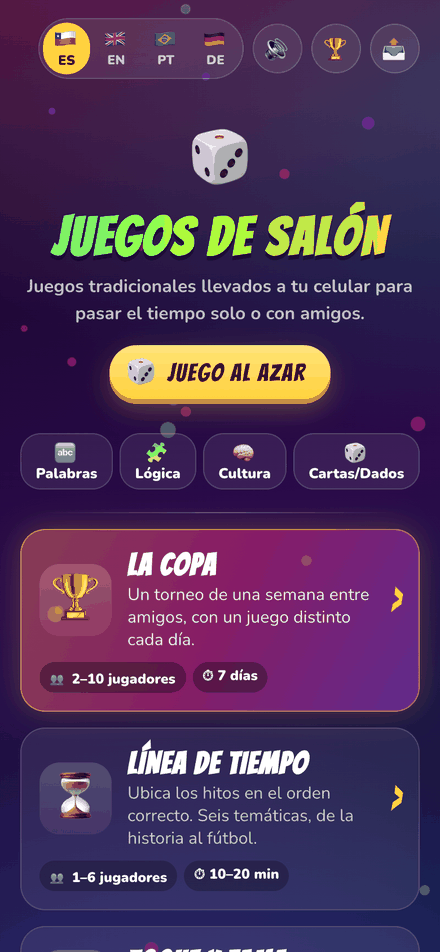
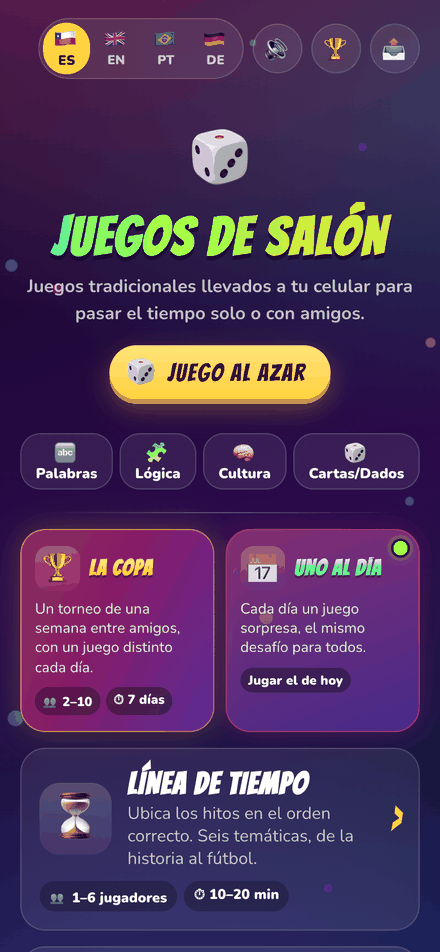
Documentación de D-239: Uno al día en la tarjeta junto a La Copa, no al lado del dado
- README: la portada pone One a Day en media fila junto a The Cup (sellado; captura del menú rehecha).
- UNO-AL-DIA.md: "En corto", "Día 2", el recordatorio de la portada y el PR 8 hablan de la
  tarjeta; la píldora sin jugar dice "🔥 6 · Jugar el de hoy", como el código.
- tools/e2e/README.md: uno-al-dia.mjs mira la tarjeta, las píldoras y la forma de /labs/.
- promo-video/README.md: el plano pendiente de la v6 muestra la tarjeta, no el botón.

diff --git a/docs/UNO-AL-DIA.md b/docs/UNO-AL-DIA.md
@@ -12,8 +12,9 @@ Las pantallas están dibujadas en un lienzo aparte (privado del dueño).
 
 ## En corto
 
-1. **Un botón nuevo en la portada**: 📅 **Uno al día**, junto a 🎲 **Juego al azar**. Muestra la
-   racha (🔥 6) y si ya se jugó hoy.
+1. **Un acceso nuevo en la portada**: 📅 **Uno al día**, en una tarjeta de media fila junto a La
+   Copa (D-239; en el diseño era un botón junto a 🎲 **Juego al azar**). Muestra la racha (🔥 6) y
+   si ya se jugó hoy.
 2. **El juego de hoy es el mismo para todos**, con el mismo contenido: sale de la fecha, como el
    contenido de un día de La Copa sale del código y del día (D-97). Así hay ranking del día y algo
    que compartir ("hoy me fue mejor que a ti").
@@ -96,14 +97,14 @@ lanzamiento: **Uno al día n.° 1, n.° 2…**, para compartir.
 
 ### Día 2 en adelante: vuelve
 
-- **Por su cuenta:** abre la app y el botón dice **📅 Uno al día 🔥 1**, con el punto que brilla
-  (el botón va en una línea, ver "Lo que el PR 1 hizo").
+- **Por su cuenta:** abre la app y la tarjeta de Uno al día dice **🔥 1 · Jugar el de hoy**, con el
+  punto que brilla (D-239, ver "Lo que el PR 1 hizo").
 - **Con un aviso** a la hora que eligió: "📅 Uno al día n.° 13 ya está. 🔥 Racha: 1 día." (el de la tabla de
   avisos) Al tocarlo
   rueda el dado.
-- **Mientras no lo haya jugado, el dado rueda cada vez** que toca el botón, el aviso o un link, y
+- **Mientras no lo haya jugado, el dado rueda cada vez** que toca la tarjeta, el aviso o un link, y
   siempre cae en el mismo juego (decisión del dueño: la misma experiencia de Juego al azar).
-- Si ya jugó, el botón queda cian, **✅ Uno al día 🔥 2**, y al tocarlo abre su página de Uno al día (sus
+- Si ya jugó, la tarjeta queda cian, **✅ Listo · 🔥 2**, y al tocarla abre su página de Uno al día (sus
   números, el ranking del día y cuánto falta para el próximo: "El próximo sale en 7 h 12 min.").
 
 ### Quiere jugar más
@@ -290,7 +291,7 @@ Para quien no quiere avisos, o tiene un iPhone sin la app instalada:
 
 | Forma | Cómo funciona |
 |---|---|
-| **El botón de la portada** | Su estado se ve al entrar: el punto que brilla mientras falta jugar, 🔥 6, y cian con ✅ cuando ya jugó. |
+| **La tarjeta de la portada** | Su estado se ve al entrar: el punto que brilla mientras falta jugar, 🔥 6, y cian con ✅ cuando ya jugó (D-239). |
 | **El globo en el ícono** | En la app instalada (Android, y iPhone con avisos permitidos), un **1** en el ícono si hoy no ha jugado (`navigator.setAppBadge`). Lo pone la página al abrir y lo quita al terminar; el service worker lo pone con el aviso del día. |
 | **La tarjeta para compartir** | Al estilo Wordle, sin adelantar la respuesta: el grupo de WhatsApp le recuerda a cada uno que juegue. |
 | **El link fijo** | `juegosdesalon.cl/today/` siempre abre el de hoy: se guarda en favoritos o se fija en un grupo. |
@@ -400,8 +401,8 @@ celular saca la palabra, la flota o los dados de la semilla del día.
   flecha, más la frase del que más mejoró o, si ninguno, del que más bajó.
 - **Dónde va en la portada** (D-239, decisión del dueño, 2026-10-06): en una tarjeta de media fila
   junto a La Copa, mitad y mitad, con el emoji a la izquierda del título y el título en celeste (el
-  de La Copa, en dorado). Abajo, una píldora con el estado: **Jugar el de hoy**, o **✅ Listo · 🔥 6**
-  ya jugado. La forma de antes, un botón en la misma fila que Juego al azar (**🎲 Al azar** y
+  de La Copa, en dorado). Abajo, una píldora con el estado: **🔥 6 · Jugar el de hoy** (sin racha, solo
+  **Jugar el de hoy**), o **✅ Listo · 🔥 6** ya jugado. La forma de antes, un botón en la misma fila que Juego al azar (**🎲 Al azar** y
   **📅 Uno al día 🔥 6**), queda para probarla desde `/labs/` ("Al lado del dado") o con
   `?uad=boton`.
 - El CSS del dado pasó de la portada a `base.css`, para tirarlo desde cualquier página.
@@ -558,7 +559,8 @@ celular saca la palabra, la flota o los dados de la semilla del día.
 ### Lo que el PR 8 hizo (v0.121.0): sale del laboratorio
 
 - `UNO_AL_DIA_EN_LABS = false`: el botón de la portada, `/today/` y todo lo demás se ven para
-  todos. En `/labs/` queda solo probar la otra forma del acceso (la tarjeta junto a La Copa).
+  todos. En `/labs/` queda solo probar la otra forma del acceso (la tarjeta junto a La Copa, que pasó a
+  ser la de todos en D-239; desde entonces en `/labs/` se prueba el botón al lado del dado).
 - **El n.° 1 pasó al 6 de octubre de 2026**, el día en que se abrió (decisión del dueño):
   `LANZAMIENTO` en uno-al-dia.js. El mazo es el mismo corrido un día (el 6 es Desenredo) y los de
   grupo siguen saliendo desde el mazo del 13. Desde ahora queda fijo: moverlo cambia el juego de
@@ -597,7 +599,7 @@ Botones (caben en 320 px, unos 18 caracteres): **Uno al día**, **Jugar el de ho
 **🎲 Jugar otro**, **Invitar**, **Entrar**, **Ahora no**, **Mañana · 9:00**, **Almuerzo · 13:00**,
 **Tarde · 19:00**, **Silenciar** y **Probar los avisos** ("⏰ Agregar recordatorio", que pasaba de
 18 e iba en botón chico, se sacó: decisión 15). En la portada va una tarjeta al lado de La Copa
-(D-239), con su estado en una píldora: **Jugar el de hoy** o **✅ Listo · 🔥 6**. Mientras falta
+(D-239), con su estado en una píldora: **🔥 6 · Jugar el de hoy** o **✅ Listo · 🔥 6**. Mientras falta
 jugar el de hoy brilla un punto; jugada, la tarjeta se pone cian. En `/labs/` se prueba la forma de
 antes, un botón en una línea, **📅 Uno al día 🔥 6**, al lado de **🎲 Al azar**.
 Lo que hace cada estado va en su `aria-label`. "Racha", "comodín" y "Silenciar" se dicen siempre así (U-5). Los

diff --git a/tools/e2e/README.md b/tools/e2e/README.md
@@ -109,7 +109,7 @@ node tools/e2e/contacto.mjs cuarto-rey --salida /tmp/contacto
 | `versionado.mjs` | Que todos los módulos carguen con `?v=` del import map. Desde D-205 `public/` no lo lleva: correrlo contra una copia estampada (`set-version.py --sitio /tmp/sitio`, servida y pasada en `SITIO`) |
 | `instalable.mjs` | La app instalable (D-221): en la portada, un juego, La Copa, un juego suelto y `/records/`, Chrome registra `/sw.js` con alcance `/`, lee el manifest sin errores y deja instalar. En los cuatro idiomas, en la portada y en un juego, revisa que la app se llame con el `appTitle` del idioma, en el manifest y en el `apple-mobile-web-app-title` (D-222). Contra una copia estampada (`SITIO`) prueba además que el import map no se rompa |
 | `instalar.mjs` | El globo de la portada que invita a agregar la app a inicio (D-232): con el celular de cada uno (Safari y Chrome en iPhone, Chrome y Samsung en Android, WhatsApp), revisa los pasos de la hoja, el diálogo propio de Chrome, que la ✕ y "Ya la agregué" lo apaguen para siempre, que no salga en el computador ni en la app instalada, y que quepa a 320 px en los cuatro idiomas |
-| `uno-al-dia.mjs` | Uno al día (D-230): con el reloj fijo en el día n.° 1, el botón de la portada, el dado que cae en el juego de hoy, la línea de la intro, un link de otro juego que se va al de hoy, la tarjeta del resultado (racha, compartir sin decir el juego, con imagen), sin el ranking del juego, el segundo intento como práctica, el botón "Listo" y `/today/` con su racha, su calendario y la tendencia de cada juego, a 320 px y en los cuatro idiomas |
+| `uno-al-dia.mjs` | Uno al día (D-230): con el reloj fijo en el día n.° 1, la tarjeta de la portada junto a La Copa (D-239: las píldoras de las dos en una línea, el dado que vuelve a decir "Juego al azar" y el botón al lado del dado desde `/labs/`), el dado que cae en el juego de hoy, la línea de la intro, un link de otro juego que se va al de hoy, la tarjeta del resultado (racha, compartir sin decir el juego, con imagen), sin el ranking del juego, el segundo intento como práctica, el botón "Listo" y `/today/` con su racha, su calendario y la tendencia de cada juego, a 320 px y en los cuatro idiomas |
 | `uno-al-dia-jugador.mjs` | Uno al día con jugador (D-230), con el almacén de prueba: Sara juega el de hoy, entra y su día sube a la historia y a los rankings (del día y de rachas); `/today/` muestra el ranking con sus cuatro pestañas; invitar manda su link en primera persona; Pedro, en otro "celular", ve "🔥 Sara te desafía", juega, ve el duelo y le da un comodín a Sara, que lo ve una vez al volver |
 | `uno-al-dia-avisos.mjs` | Los avisos de Uno al día (D-230), con un servicio de avisos falso: la oferta con las tres horas la segunda vez que se termina, elegir una suscribe y guarda `pushDia`, la campana de `/today/` (hora, interruptores, Silenciar), que no haya recordatorio en el calendario (el recordatorio es el aviso diario, decisión 15 de D-230), los avisos bloqueados, y los caminos de iPhone en Safari y dentro de WhatsApp |
 | `uno-al-dia-grupo.mjs` | Uno al día con El Ahorcado, Batalla Naval y Dudo (D-230): con el reloj fijo en un día en que toca cada uno, que `?hoy` abra directo el modo para uno, la línea de la intro, que la palabra, la flota del celular y los dados salgan de la semilla del día, el puntaje de su fórmula, la tarjeta arriba de los botones del juego, sin revancha (#226), el segundo intento como práctica, un link de otro juego que se va al de hoy, `/today/` y el dado que nombra a los de grupo |

diff --git a/README.md b/README.md
@@ -2,7 +2,7 @@
 
 Mobile-first web app with party games to play with friends: card games, drinking games, guessing games. Open it on a phone or tablet, pick a game from the menu, type in the players, and the phone runs the game. In Spanish, English, Portuguese and German.
 
-The menu can be filtered by kind of game (words, logic, trivia, cards and dice); how many are playing is chosen inside each game. The filter lives in the link, so going back from a game keeps it and a filtered menu can be shared. A 🎲 **Random game** button rolls a 3D die over the menu, one game per face, and opens whichever lands on top: never The Cup, and only the filtered kind if a filter is on (D-188). Next to it, 📅 **One a Day** opens today's game: a surprise game every day, the same challenge for everyone (D-230; see below). The games The Cup is made of (Connections, Bulls and Cows: Word, What Year?, Where Is It?, Queens, Tango, Zip and Untangle) are on the menu too, as games like any other: one player, in all three languages (D-198).
+The menu can be filtered by kind of game (words, logic, trivia, cards and dice); how many are playing is chosen inside each game. The filter lives in the link, so going back from a game keeps it and a filtered menu can be shared. A 🎲 **Random game** button rolls a 3D die over the menu, one game per face, and opens whichever lands on top: never The Cup, and only the filtered kind if a filter is on (D-188). At the top, 📅 **One a Day** shares a row with The Cup, each in a half-width card: it opens today's game, a surprise game every day, the same challenge for everyone (D-230, D-239; see below). The games The Cup is made of (Connections, Bulls and Cows: Word, What Year?, Where Is It?, Queens, Tango, Zip and Untangle) are on the menu too, as games like any other: one player, in all three languages (D-198).
 
 **Play:** https://juegosdesalon.cl/
 

diff --git a/marketing/promo-video/README.md b/marketing/promo-video/README.md
@@ -38,7 +38,7 @@ revisión de usabilidad (U-34, `node tools/agents/marketing.mjs revisar`):
   - 🏆 La Copa: si el podio que se muestra tiene empate en puntos, ahora sale la línea "⚖ Empate
     en … puntos" (0.90.2).
 - **Sumar 📅 Uno al día** (D-230, para todos desde el PR #234; dueño, 2026-10-06, dilema #235): un
-  plano corto con el botón de la portada al lado de "🎲 Al azar", el dado que cae en el juego de
+  plano corto con la tarjeta de la portada junto a La Copa (D-239; antes, un botón al lado del dado), el dado que cae en el juego de
   hoy y la tarjeta del resultado con la racha 🔥 y el n.° del día. Es la razón para volver cada día.
   La tarjeta no nombra el juego de hoy (dilema #215): se graba tal como sale, sin sumarle el nombre.
 - **Cerrar con "agrégala a tu inicio"** (D-232, el globo de la portada, para todos desde el PR #234): la
